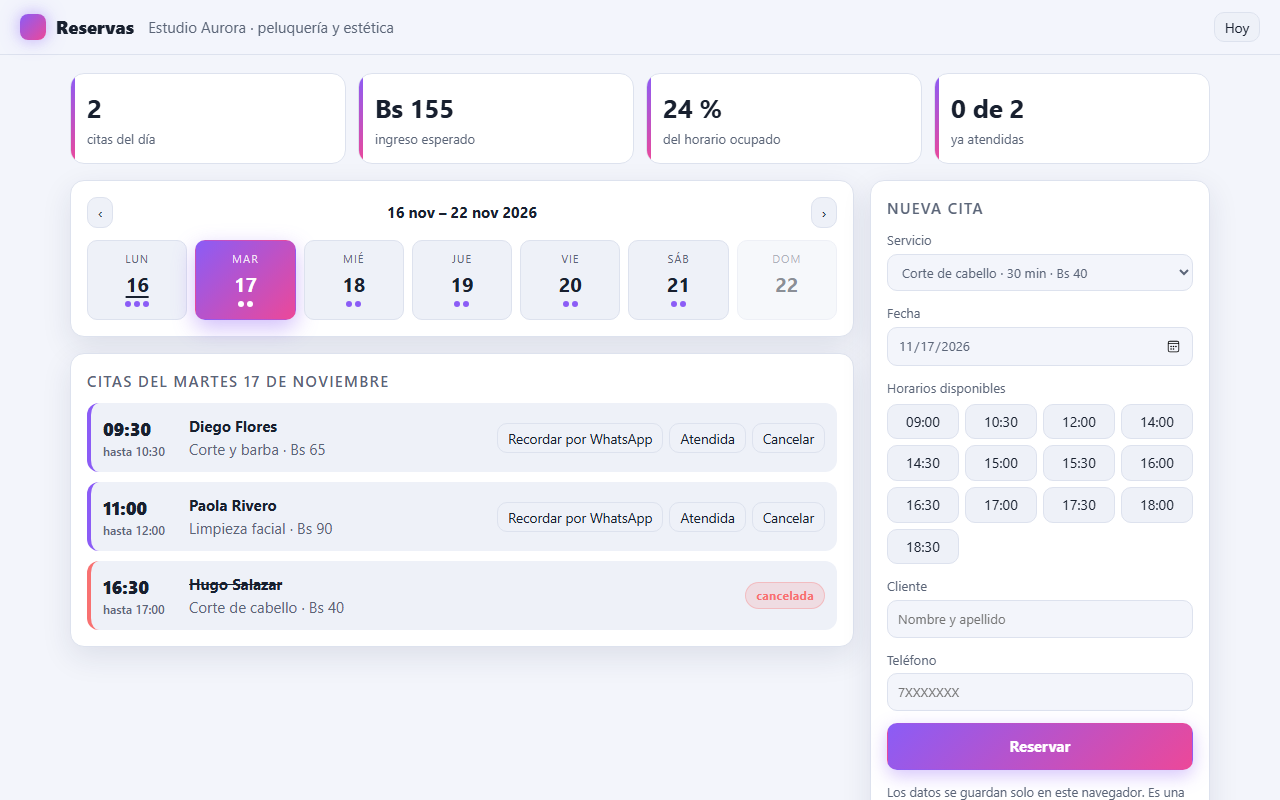
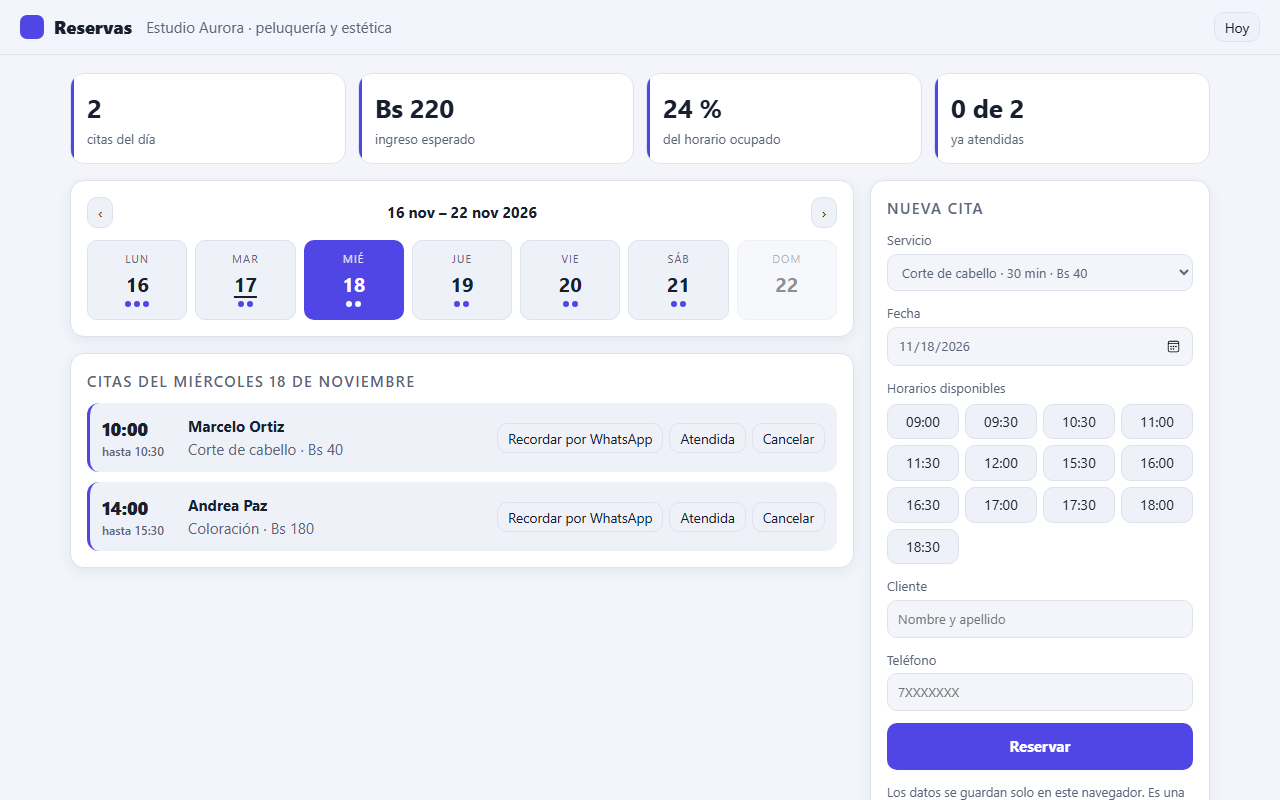
Estilo sobrio: un solo color de acento, sin degradados ni brillos

diff --git a/base.css b/base.css
@@ -6,19 +6,19 @@
   --texto: #e8ecf6;
   --suave: #93a0b8;
   --borde: #26314b;
-  --acento: #8b5cf6;
-  --acento-2: #ec4899;
-  --sobre-acento: #ffffff;
+  --acento: #a5b4fc;
+  --acento-2: var(--acento); /* un solo color de acento: sin degradados */
+  --sobre-acento: #11143a;
   --peligro: #f87171;
   --aviso: #fbbf24;
   --radio: 14px;
-  --sombra: 0 10px 30px rgba(0, 0, 0, .35);
+  --sombra: 0 4px 14px rgba(0, 0, 0, .25);
   color-scheme: dark;
 }
 @media (prefers-color-scheme: light) {
   :root:not([data-tema='oscuro']) {
     --fondo: #f3f5fb; --panel: #ffffff; --panel-2: #eef1f8; --texto: #18202f; --suave: #5b6578; --borde: #dde2ee;
-    --sombra: 0 10px 30px rgba(30, 40, 80, .10); --sobre-acento: #ffffff; color-scheme: light;
+    --sombra: 0 4px 14px rgba(30, 40, 80, .07); --sobre-acento: #ffffff; --acento: #4f46e5; color-scheme: light;
   }
 }
 * { box-sizing: border-box; }
@@ -30,7 +30,8 @@ button { cursor: pointer; border: 1px solid var(--borde); background: var(--pane
 button:hover:not(:disabled) { border-color: var(--acento); transform: translateY(-1px); }
 button:active:not(:disabled) { transform: translateY(1px) scale(.98); }
 button:disabled { opacity: .45; cursor: not-allowed; }
-button.principal { background: linear-gradient(135deg, var(--acento), var(--acento-2)); color: var(--sobre-acento); border-color: transparent; font-weight: 700; box-shadow: 0 6px 18px color-mix(in srgb, var(--acento) 35%, transparent); }
+button.principal { background: var(--acento); color: var(--sobre-acento); border-color: transparent; font-weight: 700; }
+button.principal:hover:not(:disabled) { filter: brightness(1.07); }
 button.fantasma { background: transparent; }
 button.chico { padding: 4px 10px; font-size: .85rem; }
 input, select, textarea { background: var(--fondo); border: 1px solid var(--borde); border-radius: 10px; padding: 8px 10px; min-width: 0; transition: border-color .2s, box-shadow .2s; }
@@ -39,7 +40,7 @@ label { display: flex; flex-direction: column; gap: 4px; font-size: .82rem; colo
 
 .barra-superior { position: sticky; top: 0; z-index: 5; display: flex; align-items: center; gap: 14px; padding: 12px 20px; background: color-mix(in srgb, var(--fondo) 82%, transparent); backdrop-filter: blur(10px); border-bottom: 1px solid var(--borde); }
 .marca { display: flex; align-items: center; gap: 10px; font-weight: 800; font-size: 1.1rem; letter-spacing: .2px; }
-.marca i { width: 26px; height: 26px; border-radius: 8px; background: linear-gradient(135deg, var(--acento), var(--acento-2)); display: inline-block; box-shadow: 0 0 18px color-mix(in srgb, var(--acento) 55%, transparent); }
+.marca i { width: 24px; height: 24px; border-radius: 7px; background: var(--acento); display: inline-block; }
 .espacio { flex: 1; }
 .pestanas { display: flex; gap: 4px; background: var(--panel); border: 1px solid var(--borde); border-radius: 12px; padding: 4px; }
 .pestanas button { border: 0; background: transparent; color: var(--suave); padding: 6px 14px; }
@@ -59,7 +60,7 @@ td.num, th.num { text-align: right; font-variant-numeric: tabular-nums; }
 
 .kpis { display: grid; grid-template-columns: repeat(auto-fit, minmax(170px, 1fr)); gap: 12px; }
 .kpi { background: var(--panel); border: 1px solid var(--borde); border-radius: var(--radio); padding: 14px 16px; position: relative; overflow: hidden; }
-.kpi::before { content: ''; position: absolute; inset: 0 auto 0 0; width: 4px; background: linear-gradient(var(--acento), var(--acento-2)); }
+.kpi::before { content: ''; position: absolute; inset: 0 auto 0 0; width: 3px; background: var(--acento); }
 .kpi b { display: block; font-size: 1.6rem; font-variant-numeric: tabular-nums; }
 .kpi span { color: var(--suave); font-size: .82rem; }
 
@@ -70,8 +71,8 @@ td.num, th.num { text-align: right; font-variant-numeric: tabular-nums; }
 .aviso-flotante.error { border-left-color: var(--peligro); }
 
 @keyframes aparecer { from { opacity: 0; } to { opacity: 1; } }
-@keyframes subir { from { opacity: 0; transform: translateY(14px); } to { opacity: 1; transform: none; } }
-@keyframes pulso { 0% { transform: scale(1); } 40% { transform: scale(1.06); } 100% { transform: scale(1); } }
+@keyframes subir { from { opacity: 0; transform: translateY(8px); } to { opacity: 1; transform: none; } }
+@keyframes pulso { 0% { transform: scale(1); } 40% { transform: scale(1.03); } 100% { transform: scale(1); } }
 .entra { animation: subir .35s cubic-bezier(.2, .8, .2, 1) both; }
 .pulso { animation: pulso .3s ease; }
 @media (prefers-reduced-motion: reduce) { *, *::before, *::after { animation: none !important; transition: none !important; scroll-behavior: auto !important; } }

diff --git a/estilos.css b/estilos.css
@@ -8,14 +8,14 @@ main { max-width: 1180px; margin: 0 auto; padding: 18px 20px 40px; display: flex
 .dia b { font-size: 1.25rem; }
 .dia .puntos { display: flex; gap: 3px; min-height: 8px; }
 .dia .puntos i { width: 6px; height: 6px; border-radius: 50%; background: var(--acento); }
-.dia[aria-selected='true'] { background: linear-gradient(135deg, var(--acento), var(--acento-2)); color: #fff; border-color: transparent; box-shadow: 0 8px 22px color-mix(in srgb, var(--acento) 40%, transparent); }
-.dia[aria-selected='true'] small { color: rgba(255, 255, 255, .85); }
-.dia[aria-selected='true'] .puntos i { background: #fff; }
+.dia[aria-selected='true'] { background: var(--acento); color: var(--sobre-acento); border-color: transparent; }
+.dia[aria-selected='true'] small { color: inherit; opacity: .85; }
+.dia[aria-selected='true'] .puntos i { background: currentColor; }
 .dia.cerrado { opacity: .5; }
 .dia.es-hoy b { text-decoration: underline; text-decoration-thickness: 2px; text-underline-offset: 4px; }
 
 .agenda { list-style: none; margin: 0; padding: 0; display: flex; flex-direction: column; gap: 10px; }
-.cita { display: grid; grid-template-columns: 74px 1fr auto; gap: 12px; align-items: center; background: var(--panel-2); border-radius: 12px; padding: 12px; border-left: 4px solid var(--acento); }
+.cita { display: grid; grid-template-columns: 74px 1fr auto; gap: 12px; align-items: center; background: var(--panel-2); border-radius: 12px; padding: 12px; border-left: 3px solid var(--acento); }
 .cita .hora { font-weight: 800; font-size: 1.1rem; font-variant-numeric: tabular-nums; }
 .cita .hora small { display: block; color: var(--suave); font-weight: 500; font-size: .75rem; }
 .cita .quien b { display: block; }
@@ -31,7 +31,7 @@ a.boton:hover { border-color: var(--acento); transform: translateY(-1px); }
 .etiqueta { font-size: .82rem; color: var(--suave); display: block; margin-bottom: 6px; }
 .horas { display: grid; grid-template-columns: repeat(4, 1fr); gap: 6px; max-height: 190px; overflow: auto; }
 .horas button { padding: 6px 0; font-variant-numeric: tabular-nums; font-size: .9rem; }
-.horas button[aria-checked='true'] { background: linear-gradient(135deg, var(--acento), var(--acento-2)); color: #fff; border-color: transparent; font-weight: 700; }
+.horas button[aria-checked='true'] { background: var(--acento); color: var(--sobre-acento); border-color: transparent; font-weight: 700; }
 .nota { font-size: .8rem; margin: 12px 0 0; }
 #reservar { padding: 11px; }
 
